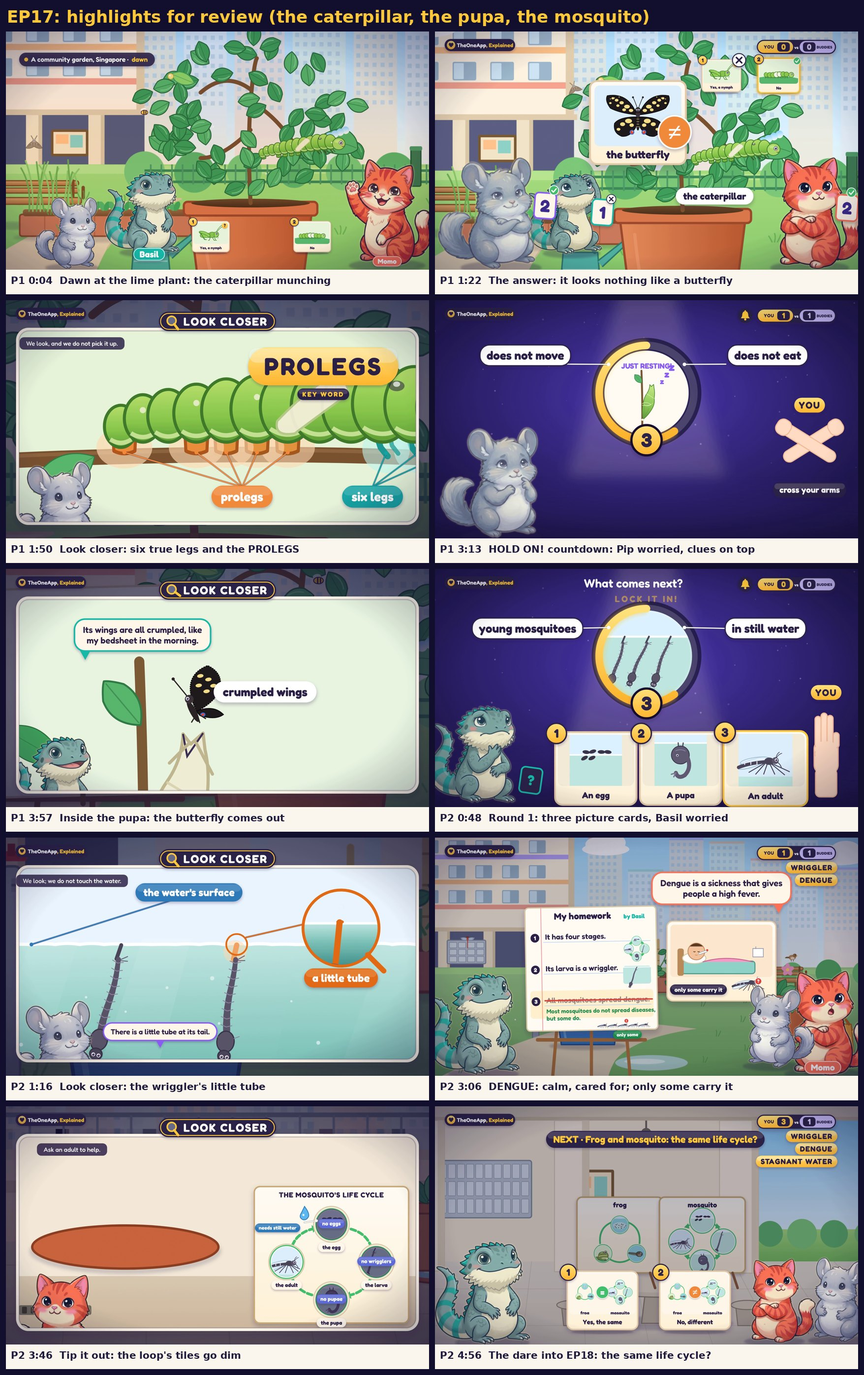
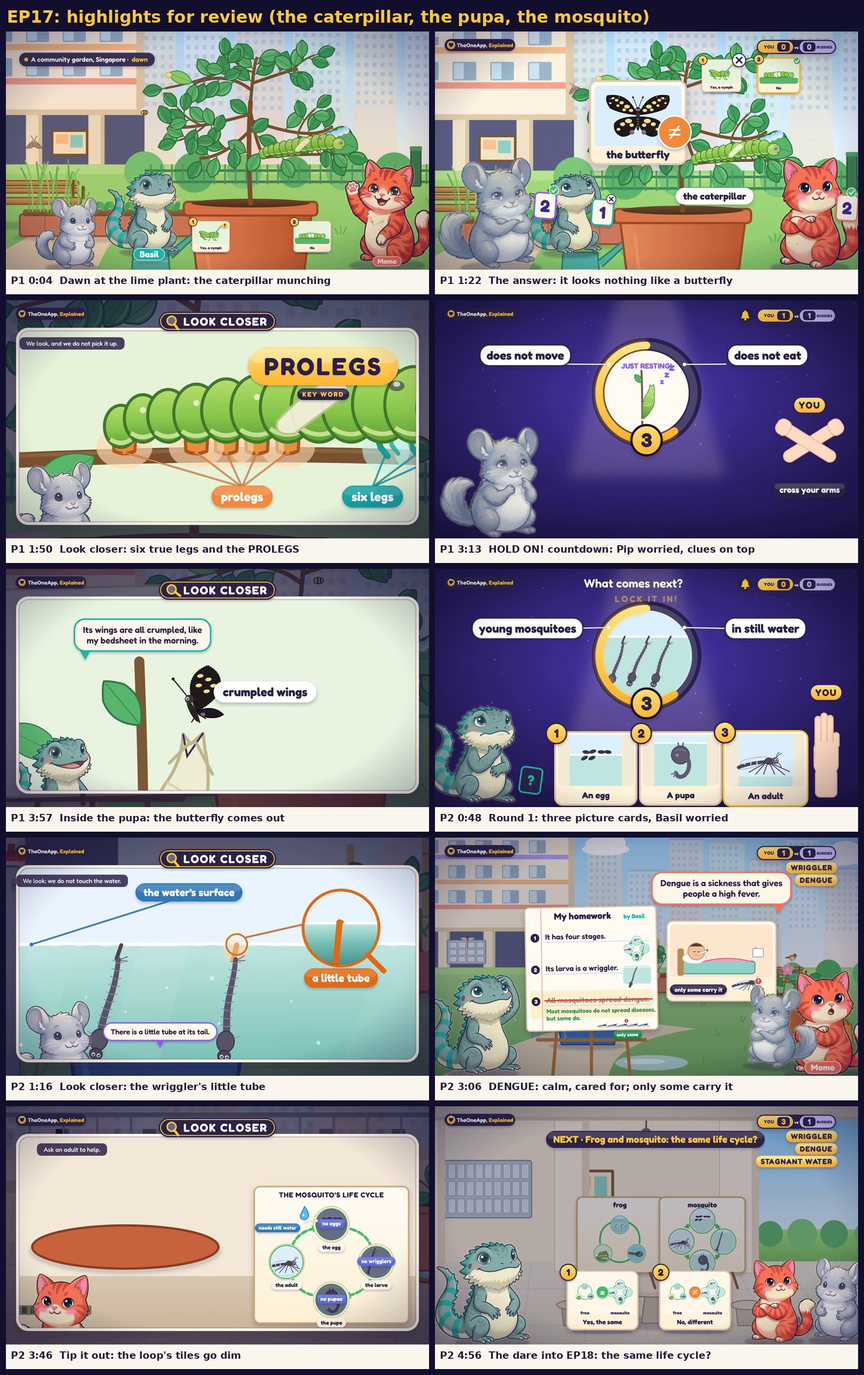
EP17: both parts re-rendered with every leaf on a twig; review pack and STATE
Claude-Session: https://claude.ai/code/session_017vcscXTweEdXk7zMTDrzTD

diff --git a/production/workspace/explained2/ep17/STATE.md b/production/workspace/explained2/ep17/STATE.md
@@ -101,7 +101,7 @@ Stage 2.5 (teacher's-eye review, NOTES_REVIEW.md, fixes, re-render): DONE 2026-1
   pupaArt, wrigArt, plateArt; the journeys bflyJourney, mosqJourney; the recap, ring, idea, dengue, fun-fact and dare pictures, the chant
   board). p1.js / p2.js: every placeholder replaced; every mark kept.
 - **Hidden-animal spots actually used** (changed from SCENES_TODO where the spot was not visible in the frame): P1 moth: void deck pillar
-  (cold, back, title, game: intro) · a lime leaf at the plant's left (answer1) · under a leaf at the top (lime) · the fence post (waitw) ·
+  (cold, back, title, game: intro) · a lime leaf at the plant's left (answer1: now the tip leaf of its own twig, the moth sitting on it) · on a leaf at the top (lime: drawn in front of the crown since 23 Nov, it was hidden behind the new leaves) · the fence post (waitw) ·
   the watering can on the pot's LEFT (larva) · the top of Pip's easel (holdon) · the board's top-left corner (ring) · REVEAL the side of
   the pot (liz). P2 dragonfly: a bamboo stake's tip (place, game: intro) · the pail's rim (waitw) · the tap (mosqans) · Basil's easel top
   (show) · on top of the letterboxes (fix) · the corridor railing (plate) · REVEAL the watering can's handle (liz).
@@ -116,3 +116,28 @@ Stage 2.5 (teacher's-eye review, NOTES_REVIEW.md, fixes, re-render): DONE 2026-1
   Bottom right kept free.
 - **App:** `app_moments.json` (17A / 17B, keys O.cycles / CH.animalCycles, titles <= 64 characters, positive words only: checked in
   make_moments.py) and `production/youtube/chapters_p3.json` "EP17_P1" / "EP17_P2" (the main session swaps in the video ids).
+
+## Leaves on twigs, full fades (23 Nov 2026, the teacher's rule "Plants grow the way real plants grow, and what is gone is gone")
+- **The lime plant (`sets17.js` limePlant) is a real plant now** (EP18's `limePlant18` approach): the trunk, eight branches (`LIMEBR`) and
+  eight side twigs (`LIMETW`), every leaf on a short leaf stalk (`limeLeaf`); the old 72 hash-scattered `LIMELEAVES` are gone. Same pot, same
+  crown (x 815..1505, y 205..675), so nothing else in the scenes moved. The caterpillar's twig (answer1's twig, LT_CAT) is real wood, its
+  leaves hanging below; the chewed leaf sits on a stalk at the caterpillar's head; the young leaf at LT_EGG on a stalk at the egg branch's tip
+  (the egg moved 6 / 4 px with it: `camGlide` in p1.js follows, LT_EGG - [82, 26]); the pupa hangs from the pupa branch's end; `o.cut`
+  still drops about 10% of the leaves. Hidden moth: answer1's leaf (820, 330) is the tip leaf of a twig off the egg branch; the lime scene's
+  moth (on a top leaf) is drawn in front of the crown (`MOTHAT` 5th field "front").
+- **Other plants:** the far corner's bean vines (`BG.corner17`, re-baked: `node bake.js corner17`) carry their leaves on the vines; the
+  flower pots on plates (`plantPotPlate`, corner and corridor) have stems from the soil, leaves on the stems and the pink flower on its
+  stem (it floated before); inside the pupa (`pupaArt`) the two leaves come in on twigs from the panel's edges; the journey's out-of-focus
+  leaves (`leafField`) hang from the out-of-focus branch; the ring picture, Part 2's recap picture and the egg tile (`bPic`) leaves got their
+  stalks / twig. New helpers in sets17.js: `stalkLeaf17`, `leafyTwig17`. Unchanged (fine): fallen leaves floating on water (pail, plate),
+  the legs look-closer's leaves (on the twig), the planter herbs.
+- **Fades checked:** nothing that is gone stays as a ghost (the plate's water, its leaves and the hand fade to 0; the mosquito loop's dimmed
+  tiles carry their "no eggs / no wrigglers ..." labels on purpose; the journey's background leaves are out of focus, not gone).
+- Stills checked at every plant scene (P1 cold, back, answer1, lime, waitw dive, pullout, larva, lcpupa, ring, final; P2 recap, place,
+  waitw, show, plate). Both parts re-rendered whole (below).
+- **Re-rendered 23 Nov (after the leaf fix), both parts whole** (`./build_part.sh 1` and `2`, audio unchanged): `ep17_part1.mp4` **319.53 s**
+  (9586 frames), `ep17_part2.mp4` **327.47 s** (9824 frames), 1920x1080 30 fps, **-16.0 LUFS** both; srt and sheet_part1/2.png rebuilt;
+  chunks deleted. Part 2's Showdown fix poses (Basil oops, Pip and Momo arms crossed through the fix) come from p2.js, so they are in the full
+  render (checked at 176, 185, 195 s); `out/fix_170.mp4` (the old splice) is no longer needed. Countdowns unchanged: P1 Round 1 54.866..57.866,
+  HOLD ON! 190.638..195.638 (1 frame after the tick, as before), P2 Round 1 45.264..50.264, Showdown 161.248..166.248, all 1.000 s steps.
+  `qa/highlights.jpg` and `qa/preview_p1_clips.mp4` (67.8 s) / `_p2` (64.7 s) rebuilt. Thumbnails not touched (no plant in them).
